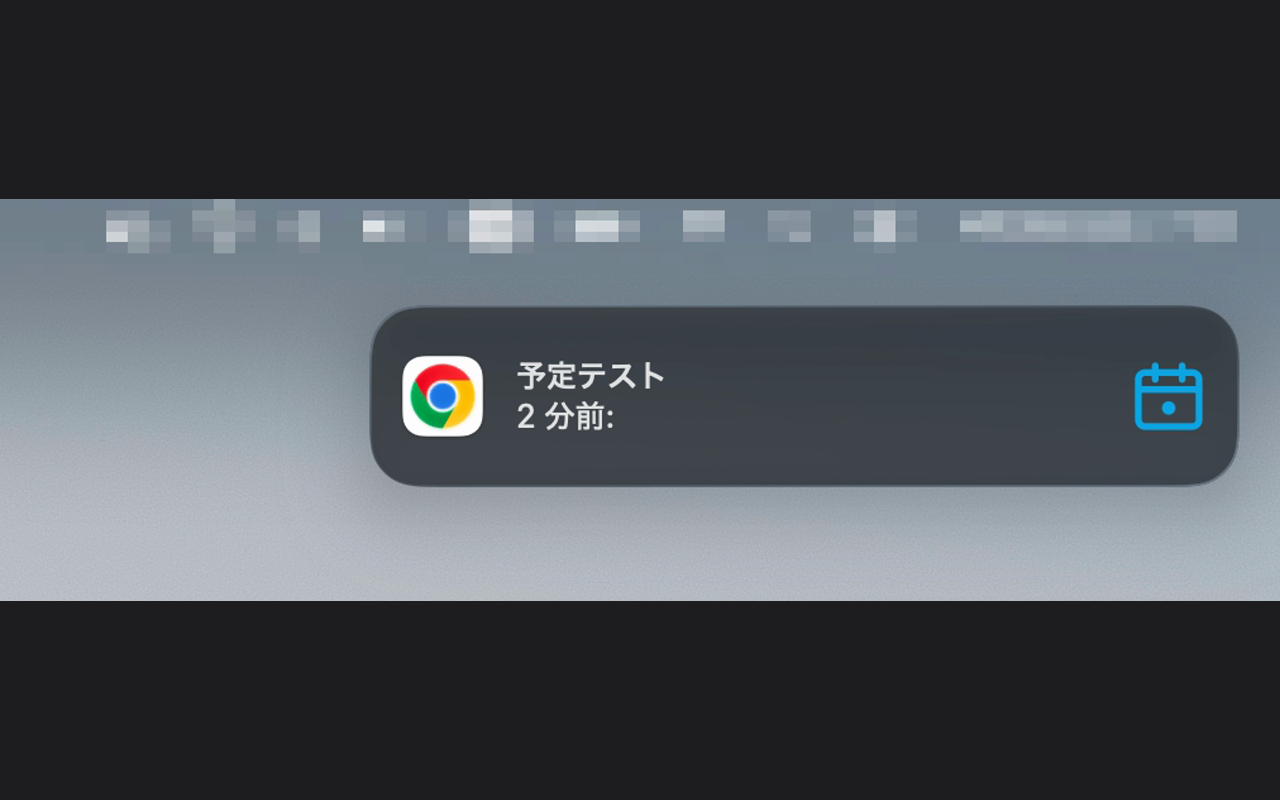
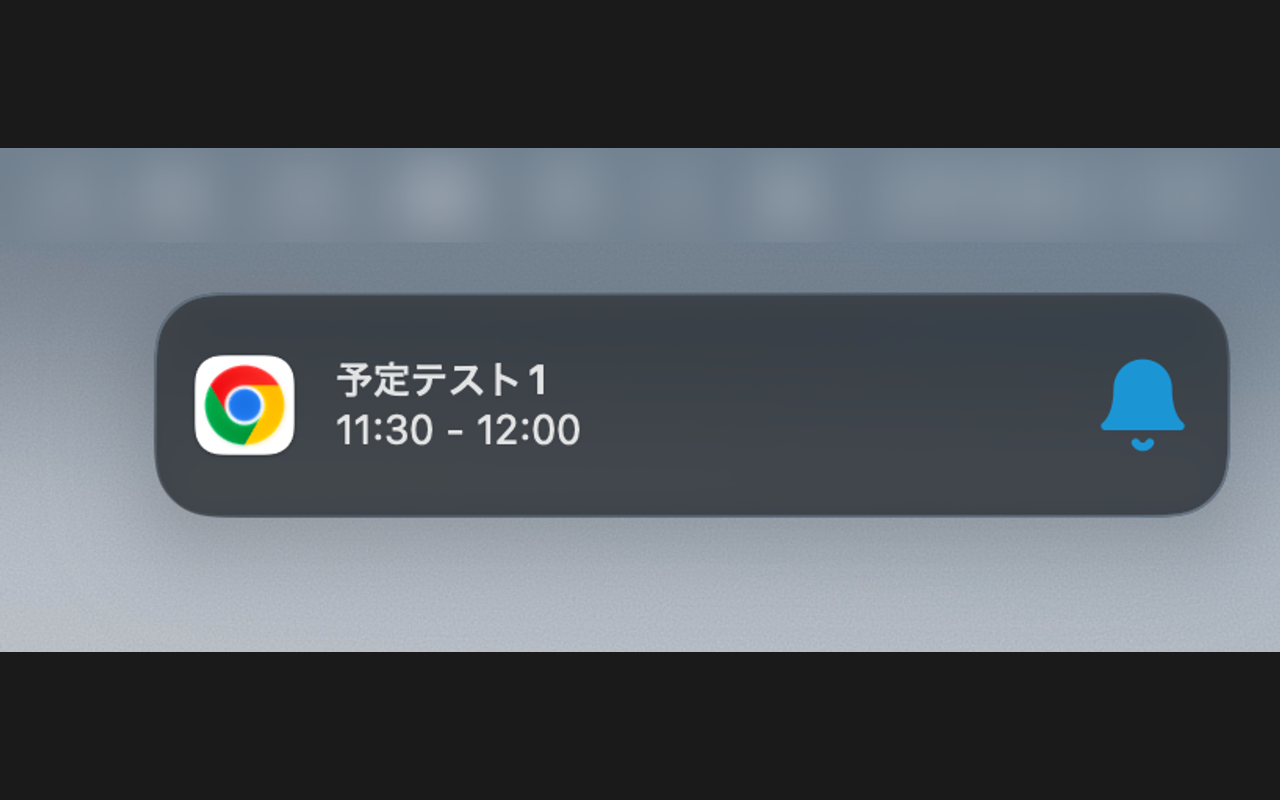
update notification message

Changed region(s): [[0.0938, 0.3438, 0.9688, 0.6875], [0.0, 0.1875, 1.0, 0.3125], [0.0, 0.75, 1.0, 0.8125]]

diff --git a/src/background.ts b/src/background.ts
@@ -70,25 +70,20 @@ async function notifyEvents() {
         ev,
         baseURL &&
           `${baseURL.replace(/\/+$/, '')}/schedule/view?event=${ev.id}`,
-        duration,
         playsSound ? soundVolume : undefined,
       );
     },
   );
 }
 
-async function notifyEvent(
-  ev: ScheduleEvent,
-  url?: string,
-  duration?: number,
-  volume?: number,
-) {
-  const title = ev.eventMenu ? `${ev.eventMenu}: ${ev.subject}` : ev.subject;
+async function notifyEvent(ev: ScheduleEvent, url?: string, volume?: number) {
+  const timeLabel = ev.isAllDay
+    ? t('all_day')
+    : `${timeString(new Date(ev.start.dateTime))} - ${timeString(new Date(ev.end.dateTime))}`;
   notify(
     {
-      title,
-      message:
-        (duration ? `${duration} ${t('minutes_before')}: ` : '') + ev.notes,
+      title: ev.subject,
+      message: timeLabel,
     },
     {
       onClicked: () => {
